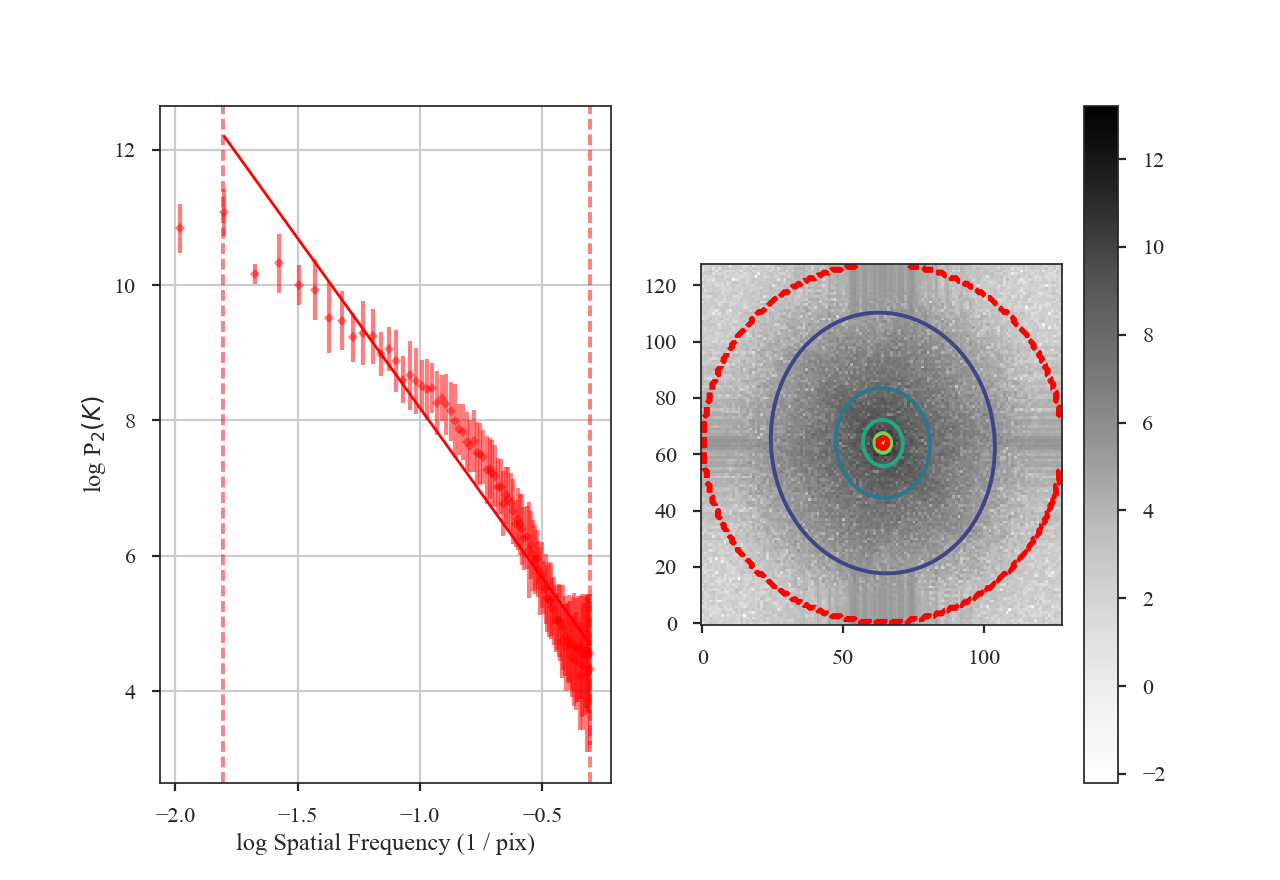
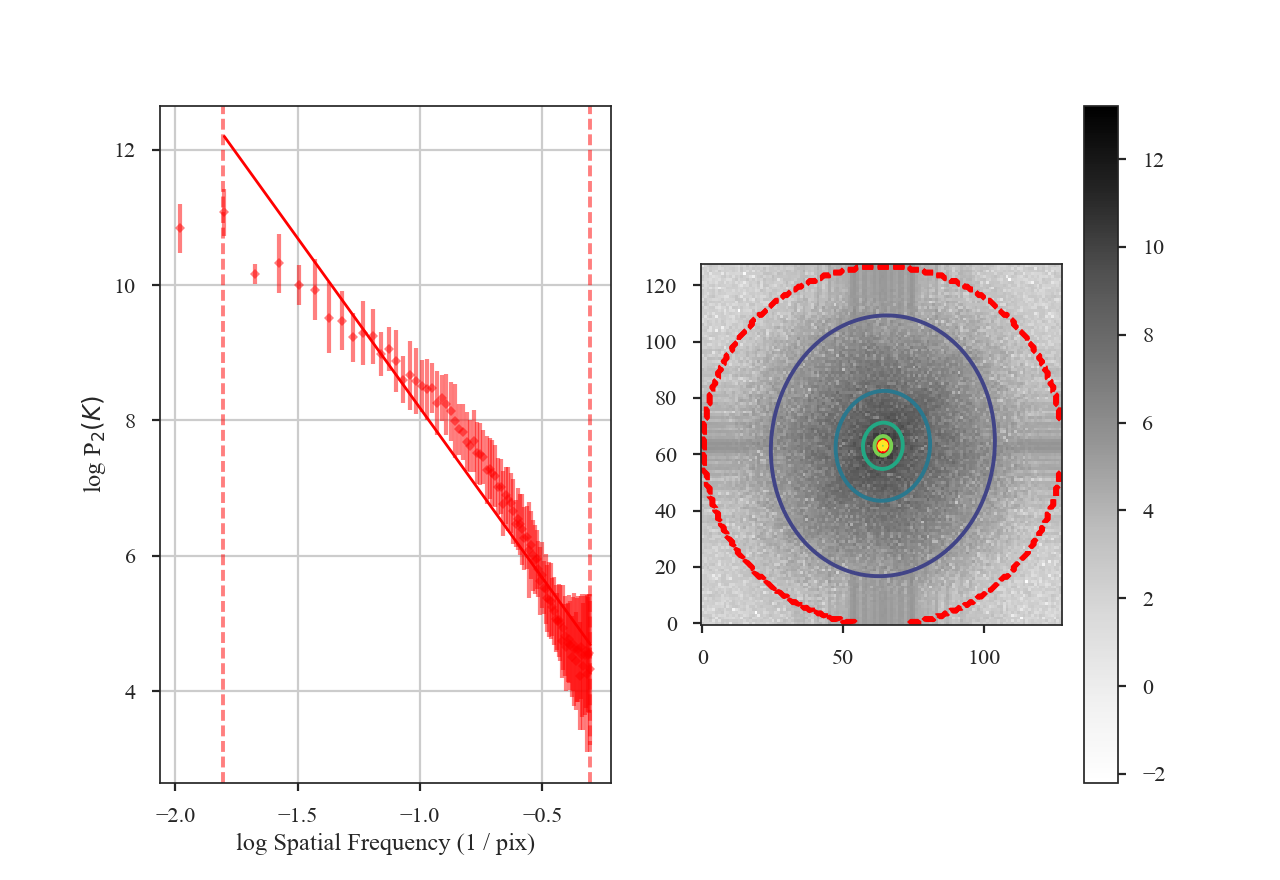
Update pspec tutorial figures and add in example with azimuthal constraints

Changed region(s): [[0.5625, 0.3068, 0.8438, 0.7057], [0.6562, 0.2761, 0.7188, 0.3068], [0.5312, 0.5523, 0.5625, 0.583]]

diff --git a/docs/tutorials/statistics/code_for_tutorials.py b/docs/tutorials/statistics/code_for_tutorials.py
@@ -29,7 +29,7 @@ run_genus = False
 run_mvc = False
 run_pca = False
 run_pdf = False
-run_pspec = True
+run_pspec = False
 run_scf = False
 run_moments = False
 run_tsallis = False
@@ -326,6 +326,13 @@ if run_pspec:
               low_cut=0.025 / u.pix, high_cut=0.4 / u.pix,
               brk=0.1 / u.pix, log_break=False, fit_2D=False,
               save_name=osjoin(fig_path, "design4_pspec_breakfit.png"))
+
+    pspec = PowerSpectrum(moment0, distance=250 * u.pc)
+    pspec.run(verbose=True, xunit=u.pc**-1,
+              low_cut=0.025 / u.pix, high_cut=0.4 / u.pix,
+              brk=0.1 / u.pix, log_break=False, fit_2D=False,
+              radial_pspec_kwargs={"theta_0": 1.13 * u.rad, "delta_theta": 40 * u.deg},
+              save_name=osjoin(fig_path, "design4_pspec_breakfit_azimlimits.png"))
 
 # SCF
 if run_scf:

diff --git a/turbustat/statistics/psds.py b/turbustat/statistics/psds.py
@@ -33,8 +33,11 @@ def pspec(psd2, nbins=None, return_stddev=False, binsize=1.0,
         Give the minimum value to bin to.
     return_freqs : bool, optional
         Return spatial frequencies.
-    theta_0 : list of two angles, optional
-        Provide azimuthal constraints to the averaging.
+    theta_0 : `~astropy.units.Quantity`, optional
+        The center angle of the azimuthal mask. Must have angular units.
+    delta_theta : `~astropy.units.Quantity`, optional
+        The width of the azimuthal mask. This must be given when
+        a `theta_0` is given. Must have angular units.
 
     Returns
     -------

diff --git a/docs/tutorials/statistics/pspec_example.rst b/docs/tutorials/statistics/pspec_example.rst
@@ -30,25 +30,25 @@ The power spectrum is computed using:
     >>> pspec.run(verbose=True, xunit=u.pix**-1)  # doctest: +SKIP
                                 OLS Regression Results
     ==============================================================================
-    Dep. Variable:                      y   R-squared:                       0.970
-    Model:                            OLS   Adj. R-squared:                  0.969
-    Method:                 Least Squares   F-statistic:                     1017.
-    Date:                Mon, 03 Jul 2017   Prob (F-statistic):           7.94e-26
-    Time:                        18:40:13   Log-Likelihood:                 15.718
-    No. Observations:                  34   AIC:                            -27.44
-    Df Residuals:                      32   BIC:                            -24.38
+    Dep. Variable:                      y   R-squared:                       0.941
+    Model:                            OLS   Adj. R-squared:                  0.941
+    Method:                 Least Squares   F-statistic:                     1426.
+    Date:                Fri, 29 Sep 2017   Prob (F-statistic):           1.44e-56
+    Time:                        14:32:47   Log-Likelihood:                -52.829
+    No. Observations:                  91   AIC:                             109.7
+    Df Residuals:                      89   BIC:                             114.7
     Df Model:                           1
     Covariance Type:            nonrobust
     ==============================================================================
                      coef    std err          t      P>|t|      [0.025      0.975]
     ------------------------------------------------------------------------------
-    const          5.1333      0.109     47.020      0.000       4.911       5.356
-    x1            -3.2859      0.103    -31.896      0.000      -3.496      -3.076
+    const          3.1677      0.103     30.828      0.000       2.964       3.372
+    x1            -5.0144      0.133    -37.761      0.000      -5.278      -4.751
     ==============================================================================
-    Omnibus:                        5.932   Durbin-Watson:                   0.798
-    Prob(Omnibus):                  0.052   Jarque-Bera (JB):                4.380
-    Skew:                          -0.796   Prob(JB):                        0.112
-    Kurtosis:                       3.745   Cond. No.                         7.99
+    Omnibus:                        3.532   Durbin-Watson:                   0.129
+    Prob(Omnibus):                  0.171   Jarque-Bera (JB):                3.481
+    Skew:                          -0.468   Prob(JB):                        0.175
+    Kurtosis:                       2.797   Cond. No.                         4.40
     ==============================================================================
 
 .. image:: images/design4_pspec.png
@@ -57,46 +57,46 @@ The code returns a summary of the one-dimensional fit and a figure showing the o
 
 The power spectrum of this simulation has a slope of :math:`-3.3\pm0.1`, but the power-spectrum deviates from a single power-law on small scales. This is due to the the limited inertial range in this simulation. The spatial frequencies used in the fit can be limited by setting `low_cut` and `high_cut`. The inputs should have frequency units in pixels, angle, or physical units. For example,
 
-    >>> pspec.run(verbose=True, xunit=u.pix**-1, low_cut=0.02 / u.pix, high_cut=0.1 / u.pix)  # doctest: +SKIP
+    >>> pspec.run(verbose=True, xunit=u.pix**-1, low_cut=0.025 / u.pix, high_cut=0.1 / u.pix)  # doctest: +SKIP
                                 OLS Regression Results
     ==============================================================================
-    Dep. Variable:                      y   R-squared:                       0.952
-    Model:                            OLS   Adj. R-squared:                  0.948
-    Method:                 Least Squares   F-statistic:                     255.7
-    Date:                Mon, 03 Jul 2017   Prob (F-statistic):           6.26e-10
-    Time:                        18:40:25   Log-Likelihood:                 10.458
-    No. Observations:                  15   AIC:                            -16.92
-    Df Residuals:                      13   BIC:                            -15.50
+    Dep. Variable:                      y   R-squared:                       0.971
+    Model:                            OLS   Adj. R-squared:                  0.968
+    Method:                 Least Squares   F-statistic:                     398.6
+    Date:                Thu, 28 Sep 2017   Prob (F-statistic):           1.42e-10
+    Time:                        17:02:20   Log-Likelihood:                 14.077
+    No. Observations:                  14   AIC:                            -24.15
+    Df Residuals:                      12   BIC:                            -22.87
     Df Model:                           1
     Covariance Type:            nonrobust
     ==============================================================================
                      coef    std err          t      P>|t|      [0.025      0.975]
     ------------------------------------------------------------------------------
-    const          5.8480      0.220     26.566      0.000       5.372       6.324
-    x1            -2.7359      0.171    -15.991      0.000      -3.106      -2.366
+    const          5.5109      0.190     29.021      0.000       5.097       5.925
+    x1            -3.0223      0.151    -19.964      0.000      -3.352      -2.692
     ==============================================================================
-    Omnibus:                        0.822   Durbin-Watson:                   2.075
-    Prob(Omnibus):                  0.663   Jarque-Bera (JB):                0.621
-    Skew:                          -0.448   Prob(JB):                        0.733
-    Kurtosis:                       2.562   Cond. No.                         13.5
+    Omnibus:                        0.901   Durbin-Watson:                   2.407
+    Prob(Omnibus):                  0.637   Jarque-Bera (JB):                0.718
+    Skew:                          -0.215   Prob(JB):                        0.698
+    Kurtosis:                       1.977   Cond. No.                         15.2
     ==============================================================================
+
 
 .. image:: images/design4_pspec_limitedfreq.png
 
-When limiting the fit to the inertial range, the slope is :math:`-2.7\pm0.2`. `low_cut` and `high_cut` can also be given as spatial frequencies in angular units (e.g., `u.deg**-1`). And since a distance was specified, the `low_cut` and `high_cut` can also be given in physical frequency units (e.g., `u.pc**-1`).
+When limiting the fit to the inertial range, the slope is :math:`-3.0\pm0.2`. `low_cut` and `high_cut` can also be given as spatial frequencies in angular units (e.g., `u.deg**-1`). And since a distance was specified, the `low_cut` and `high_cut` can also be given in physical frequency units (e.g., `u.pc**-1`).
 
 The fit to the two-dimensional power-spectrum has also changed. These parameters aren't included in the fit summary for the 1D fit. Instead, they can be accessed through:
 
     >>> print(pspec.slope2D, pspec.slope2D_err)  # doctest: +SKIP
-    (-3.0568257229644442, 0.42962017690271243)
+    (-3.155235947194412, 0.19744198375014044)
     >>> print(pspec.ellip2D, pspec.ellip2D_err)  # doctest: +SKIP
-    (0.726886399420131, 2.2978314267268547)
+    (0.74395734515060385, 0.043557506230624203)
     >>> print(pspec.theta2D, pspec.theta2D_err)  # doctest: +SKIP
-    (1.1528218999604305, 6.9282582013852014)
+    (1.1364954648370515, 0.09436799399259721)
 
-The slope is consistent with the 1D model, but the uncertainty is much larger. This is due to the very limited range of the data used for the fit. By default, the parameter uncertainties for the 2D model are determined by a bootstrap. After fitting the model, the residuals are added back to the data, and re-fit some number of times. The bootstrap estimation is enabled by the `bootstrap` keyword in `~turbustat.statistics.PowerSpectrum.fit_2Dpspec` and the number of iterations is set with `niters` (the default is 100). These can be set in `~turbustat.statistics.PowerSpectrum.run` by passing a keyword dictionary to `fit_2D_kwargs` (e.g., `fit_2D_kwargs={'bootstrap': False}`). The other parameters are the ellipticity, which is bounded between 0 and 1 (with 1 being circular), and theta, the angle between the x-axis and the semi-major axis of the ellipse. Theta is bounded between 0 and :math:`\pi`.
+The slope is moderately steeper than in the 1D model, but within the respective uncertainty ranges. By default, the parameter uncertainties for the 2D model are determined by a bootstrap. After fitting the model, the residuals are added back to the data, and re-fit some number of times (the default is 100). The bootstrap estimation is enabled by the `bootstrap` keyword in `~turbustat.statistics.PowerSpectrum.fit_2Dpspec` and the number of iterations is set with `niters` (the default is 100). These can be set in `~turbustat.statistics.PowerSpectrum.run` by passing a keyword dictionary to `fit_2D_kwargs` (e.g., `fit_2D_kwargs={'bootstrap': False}`). The other parameters are the ellipticity, which is bounded between 0 and 1 (with 1 being circular), and theta, the angle between the x-axis and the semi-major axis of the ellipse. Theta is bounded between 0 and :math:`\pi`. The example data here is moderately anisotropic.
 
-*Why are the errors so large?* For this example, the errors on the latter two parameters are larger than the ranges they are defined over! Why? Theta is left unbounded during the fit, and when unconstrained, both it and the error will be large. For the ellipticity, the fit uses a transformed version of the ellipticity that makes it defined over the real line. This has a massive effect on stabilizing the fits. The down-side is that the error becomes large when it is not well-constrained. In order to constrain these parameters, the model needs to be fit over a larger range of frequencies.
 
 Breaks in the power-law behaviour in observations (and higher-resolution simulations) can result from differences in the physical processes dominating at those scales. To capture this behaviour, `PowerSpectrum` can be passed a break point to enable fitting with a segmented linear model (`~turbustat.statistics.Lm_Seg`):
 
@@ -104,27 +104,27 @@ Breaks in the power-law behaviour in observations (and higher-resolution simulat
     >>> pspec.run(verbose=True, xunit=u.pc**-1, low_cut=0.02 / u.pix, high_cut=0.4 / u.pix, brk=0.1 / u.pix, log_break=False, fit_2D=False)  # doctest: +SKIP
                                 OLS Regression Results
     ==============================================================================
-    Dep. Variable:                      y   R-squared:                       0.994
-    Model:                            OLS   Adj. R-squared:                  0.994
-    Method:                 Least Squares   F-statistic:                     4024.
-    Date:                Tue, 04 Jul 2017   Prob (F-statistic):           1.49e-75
-    Time:                        11:16:04   Log-Likelihood:                 53.270
-    No. Observations:                  71   AIC:                            -98.54
-    Df Residuals:                      67   BIC:                            -89.49
+    Dep. Variable:                      y   R-squared:                       0.996
+    Model:                            OLS   Adj. R-squared:                  0.995
+    Method:                 Least Squares   F-statistic:                     4904.
+    Date:                Fri, 29 Sep 2017   Prob (F-statistic):           1.84e-77
+    Time:                        14:29:10   Log-Likelihood:                 61.421
+    No. Observations:                  70   AIC:                            -114.8
+    Df Residuals:                      66   BIC:                            -105.8
     Df Model:                           3
     Covariance Type:            nonrobust
     ==============================================================================
                      coef    std err          t      P>|t|      [0.025      0.975]
     ------------------------------------------------------------------------------
-    const          5.3112      0.094     56.790      0.000       5.124       5.498
-    x1            -3.1436      0.085    -36.871      0.000      -3.314      -2.973
-    x2            -5.0891      0.205    -24.853      0.000      -5.498      -4.680
-    x3            -0.0015      0.054     -0.028      0.978      -0.109       0.106
+    const          5.1169      0.087     59.057      0.000       4.944       5.290
+    x1            -3.3384      0.082    -40.924      0.000      -3.501      -3.176
+    x2            -4.9624      0.191    -26.043      0.000      -5.343      -4.582
+    x3            -0.0084      0.048     -0.174      0.863      -0.105       0.088
     ==============================================================================
-    Omnibus:                        9.165   Durbin-Watson:                   1.075
-    Prob(Omnibus):                  0.010   Jarque-Bera (JB):                8.822
-    Skew:                          -0.747   Prob(JB):                       0.0121
-    Kurtosis:                       3.867   Cond. No.                         21.5
+    Omnibus:                        3.812   Durbin-Watson:                   1.096
+    Prob(Omnibus):                  0.149   Jarque-Bera (JB):                2.211
+    Skew:                          -0.191   Prob(JB):                        0.331
+    Kurtosis:                       2.218   Cond. No.                         22.4
     ==============================================================================
 
 .. image:: images/design4_pspec_breakfit.png
@@ -132,6 +132,40 @@ Breaks in the power-law behaviour in observations (and higher-resolution simulat
 `brk` is the initial guess at where the break point is. Here I've set it to the extent of the inertial range of the simulation. `log_break` should be enabled if the given `brk` is already the log (base-10) value (since the fitting is done in log-space). The segmented linear model iteratively optimizes the location of the break point, trying to minimize the gap between the different components. This is the `x3` parameter above. The slopes of the components are `x1` and `x2`, but the second slope is defined *relative to the first slope* (i.e., if `x2=0`, the slopes of the components would be the same). The true slopes can be accessed through `pspec.slope` and `pspec.slope_err`. The location of the fitted break point is given by `pspec.brk`, and its uncertainty `pspec.brk_err`. If the fit does not find a good break point, it will revert to a linear fit without the break.
 
 Note that the 2D fitting was disabled in this last example. The 2D model cannot fit a break point, and will instead try to fit a single power-law for the between `low_cut` and `high_cut`, which we know already know is the wrong model. Thus, it has been disabled to avoid confusion. A strategy for fitting the 2D model when the spectrum shows a break is to first fit the 1D model, find the break point, and then fit the 2D spectrum independently using the break point as the `high_cut` in `~turbustat.statistics.PowerSpectrum.fit_2Dpspec`.
+
+There may be cases where you want to limit the azimuthal angles used to create the 1D averaged power-spectrum. This may be useful if, for example, you want to find a measure of anistropy but the 2D power-law fit is not performing well. We will add extra constraints to the previous example with a break point:
+
+    >>> pspec = PowerSpectrum(moment0, distance=250 * u.pc)  # doctest: +SKIP
+    >>> pspec.run(verbose=True, xunit=u.pc**-1, low_cut=0.02 / u.pix, high_cut=0.4 / u.pix, brk=0.1 / u.pix, log_break=False, fit_2D=False, radial_pspec_kwargs={"theta_0": 1.13 * u.rad, "delta_theta": 40 * u.deg})  # doctest: +SKIP
+                                OLS Regression Results
+    ==============================================================================
+    Dep. Variable:                      y   R-squared:                       0.990
+    Model:                            OLS   Adj. R-squared:                  0.989
+    Method:                 Least Squares   F-statistic:                     2113.
+    Date:                Fri, 29 Sep 2017   Prob (F-statistic):           1.76e-65
+    Time:                        14:29:10   Log-Likelihood:                 30.377
+    No. Observations:                  70   AIC:                            -52.75
+    Df Residuals:                      66   BIC:                            -43.76
+    Df Model:                           3
+    Covariance Type:            nonrobust
+    ==============================================================================
+                     coef    std err          t      P>|t|      [0.025      0.975]
+    ------------------------------------------------------------------------------
+    const          5.7150      0.173     33.005      0.000       5.369       6.061
+    x1            -2.9371      0.154    -19.041      0.000      -3.245      -2.629
+    x2            -4.9096      0.254    -19.313      0.000      -5.417      -4.402
+    x3             0.0156      0.077      0.202      0.840      -0.138       0.169
+    ==============================================================================
+    Omnibus:                        3.679   Durbin-Watson:                   1.837
+    Prob(Omnibus):                  0.159   Jarque-Bera (JB):                1.894
+    Skew:                          -0.030   Prob(JB):                        0.388
+    Kurtosis:                       2.196   Cond. No.                         22.9
+    ==============================================================================
+
+.. image:: images/design4_pspec_breakfit_azimlimits.png
+
+The azimuthal mask has been added onto the plot of the two-dimensional power spectrum. The constraints used here are based on the major axis direction from the two-dimensional fit performed above. This is given as `theta_0`. The other parameter, `delta_theta`, is the width of the azimuthal mask to use. Both parameters can be specified in any angular unit.
+
 
 References
 ----------
